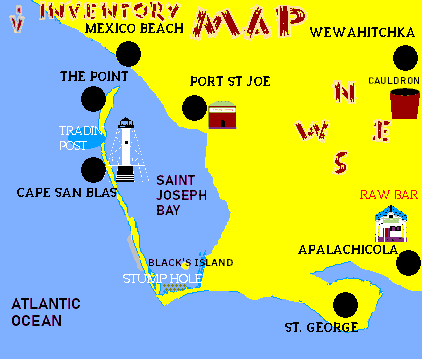
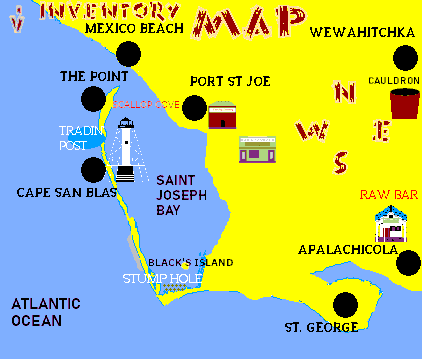
new map locations and boss spin audio bug fix.

Changed region(s): [[0.5545, 0.3677, 0.6777, 0.4596], [0.2464, 0.2758, 0.4313, 0.3064]]

diff --git a/core/src/gameobjects/gamecharacters/enemies/Boss.java b/core/src/gameobjects/gamecharacters/enemies/Boss.java
@@ -68,6 +68,8 @@ public class Boss extends Enemy {
 
 	// Used for health meter.  It will get brighter by this percent each time boss is hit.
 	public static float percentToChangeAlphaEachHit;
+	
+	private boolean spinAudioHasBeenSet = false;
 
 	/**
 	 * Constructor.
@@ -242,6 +244,11 @@ public class Boss extends Enemy {
 	@Override
 	public void updateObject(MyGame myGame, MapHandler mapHandler) {
 
+		if (!spinAudioHasBeenSet) {
+			spinAudioHasBeenPlayed = false;
+			spinAudioHasBeenSet = true;
+		}
+		
 		BossHealthUi.shouldDisplay = false;
 		GameObject player = myGame.getGameObject(Player.PLAYER_ONE);
 		if (!dead) {

diff --git a/core/src/physics/Lighting/StructureShadowHandler.java b/core/src/physics/Lighting/StructureShadowHandler.java
@@ -74,7 +74,7 @@ public class StructureShadowHandler {
 				GameAttributeHelper.CHUNK_FIVE_Y_POSITION_START - 90.5f, 
 				BuildingLoader.BUILDING_WIDTH,
 				BuildingLoader.BUILDING_HEIGHT, 
-				imageLoader.barShadow
+				imageLoader.tradingPostShadow
 				);
 	}
 
